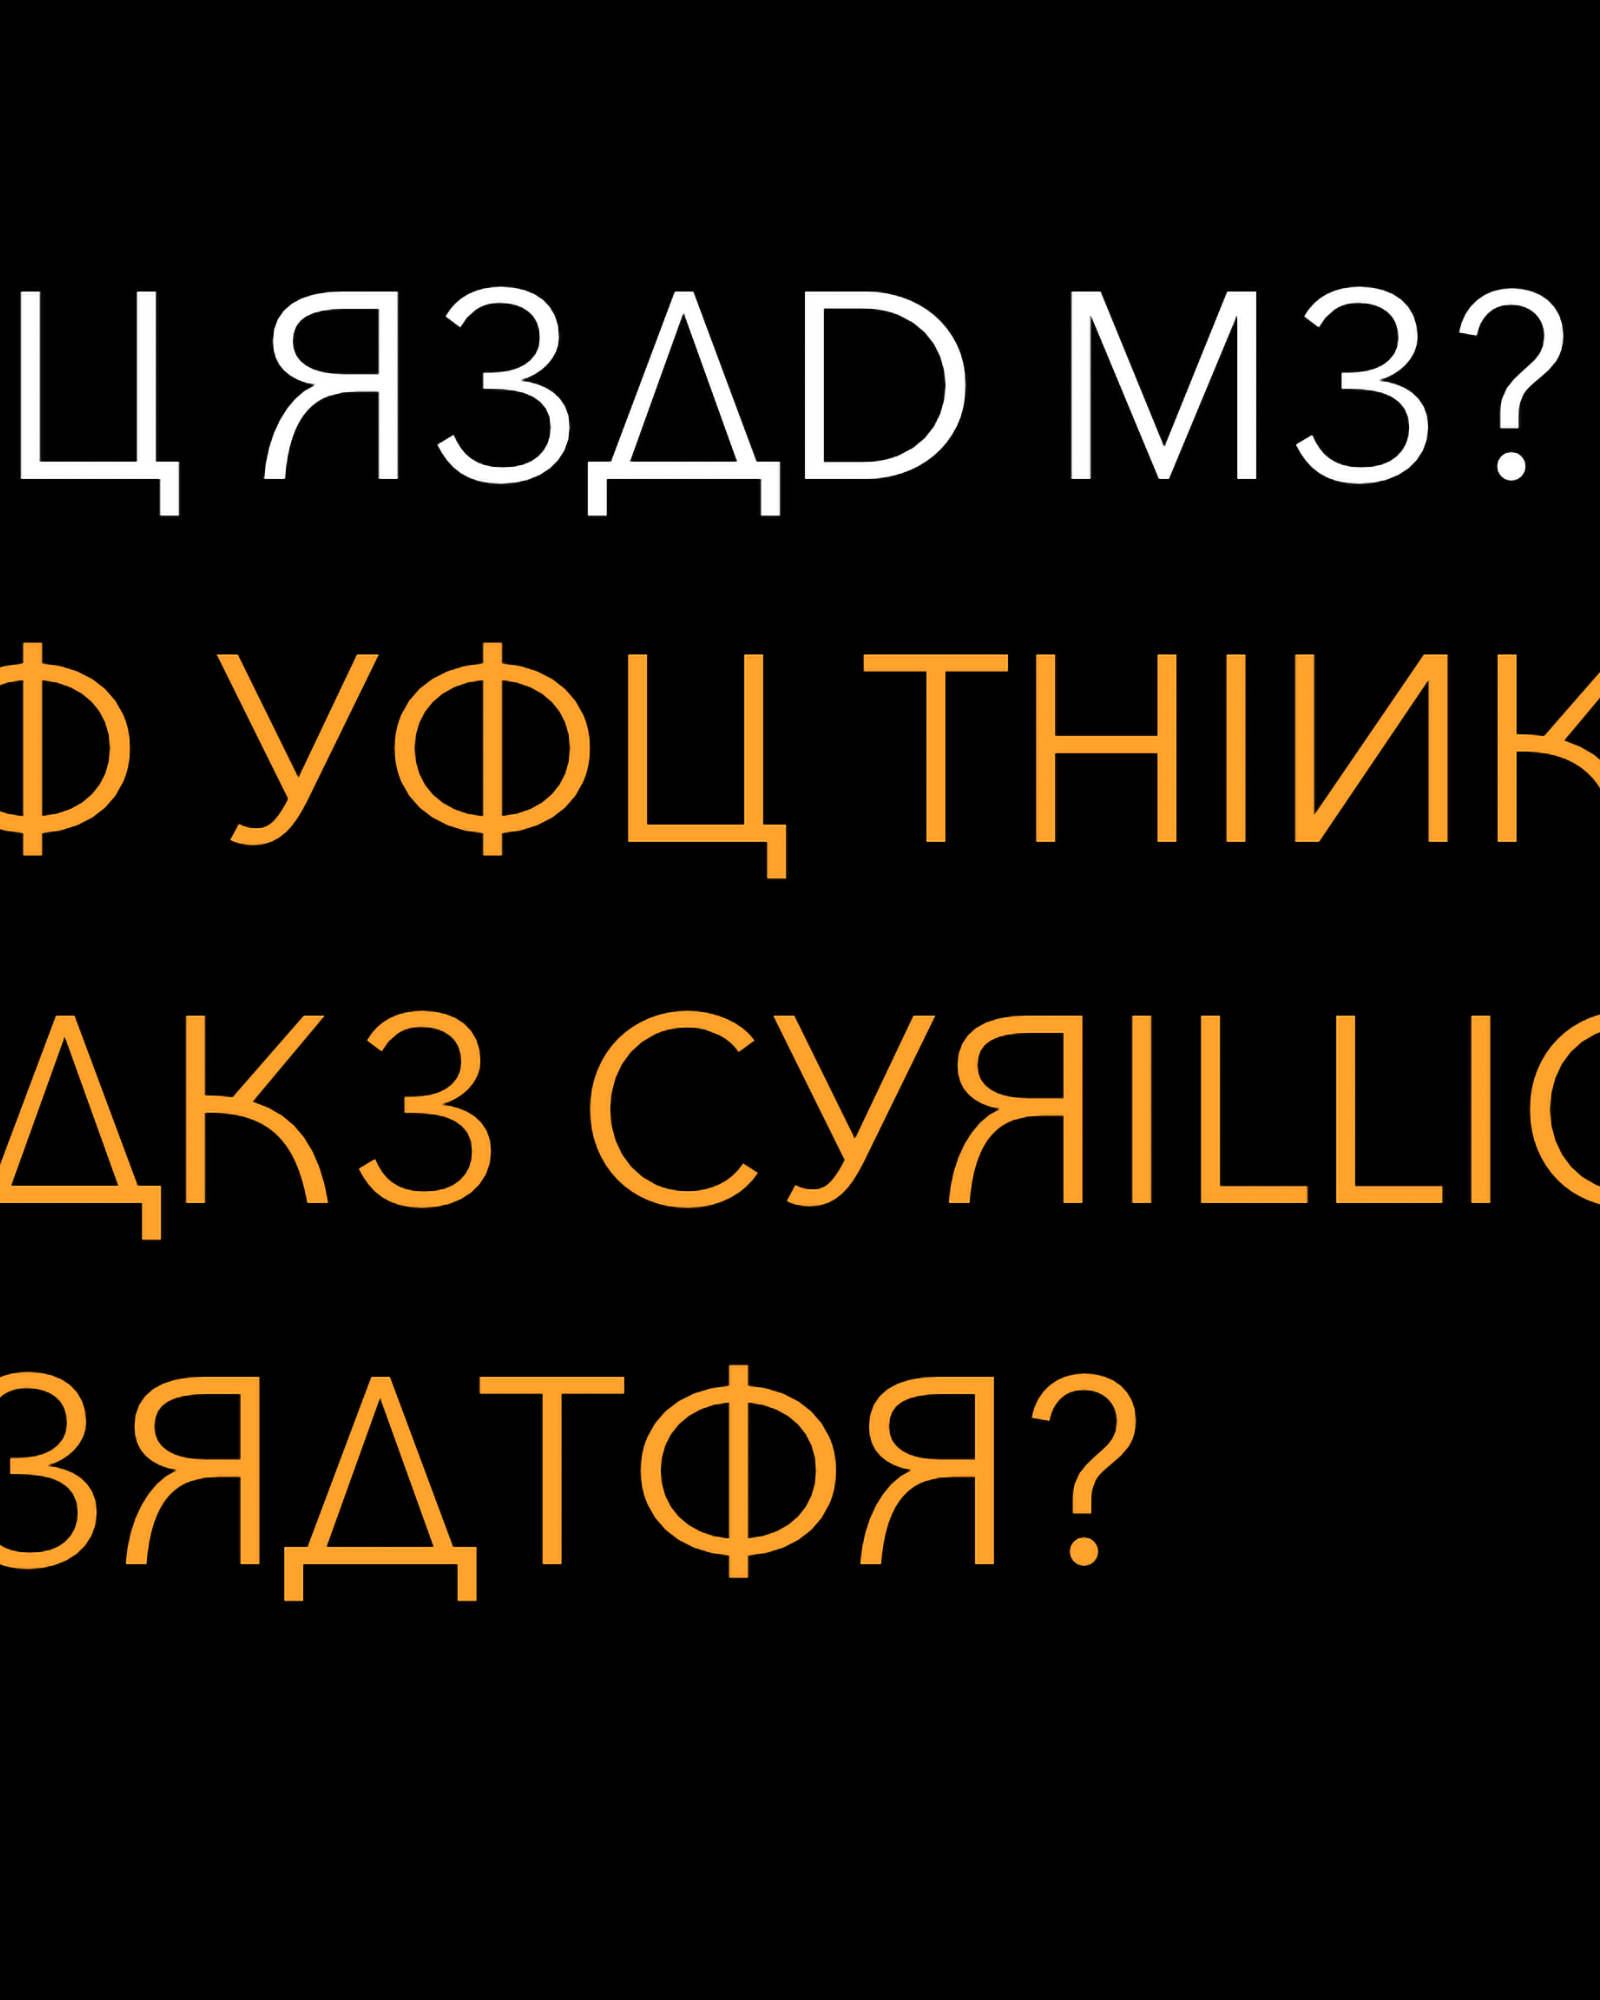
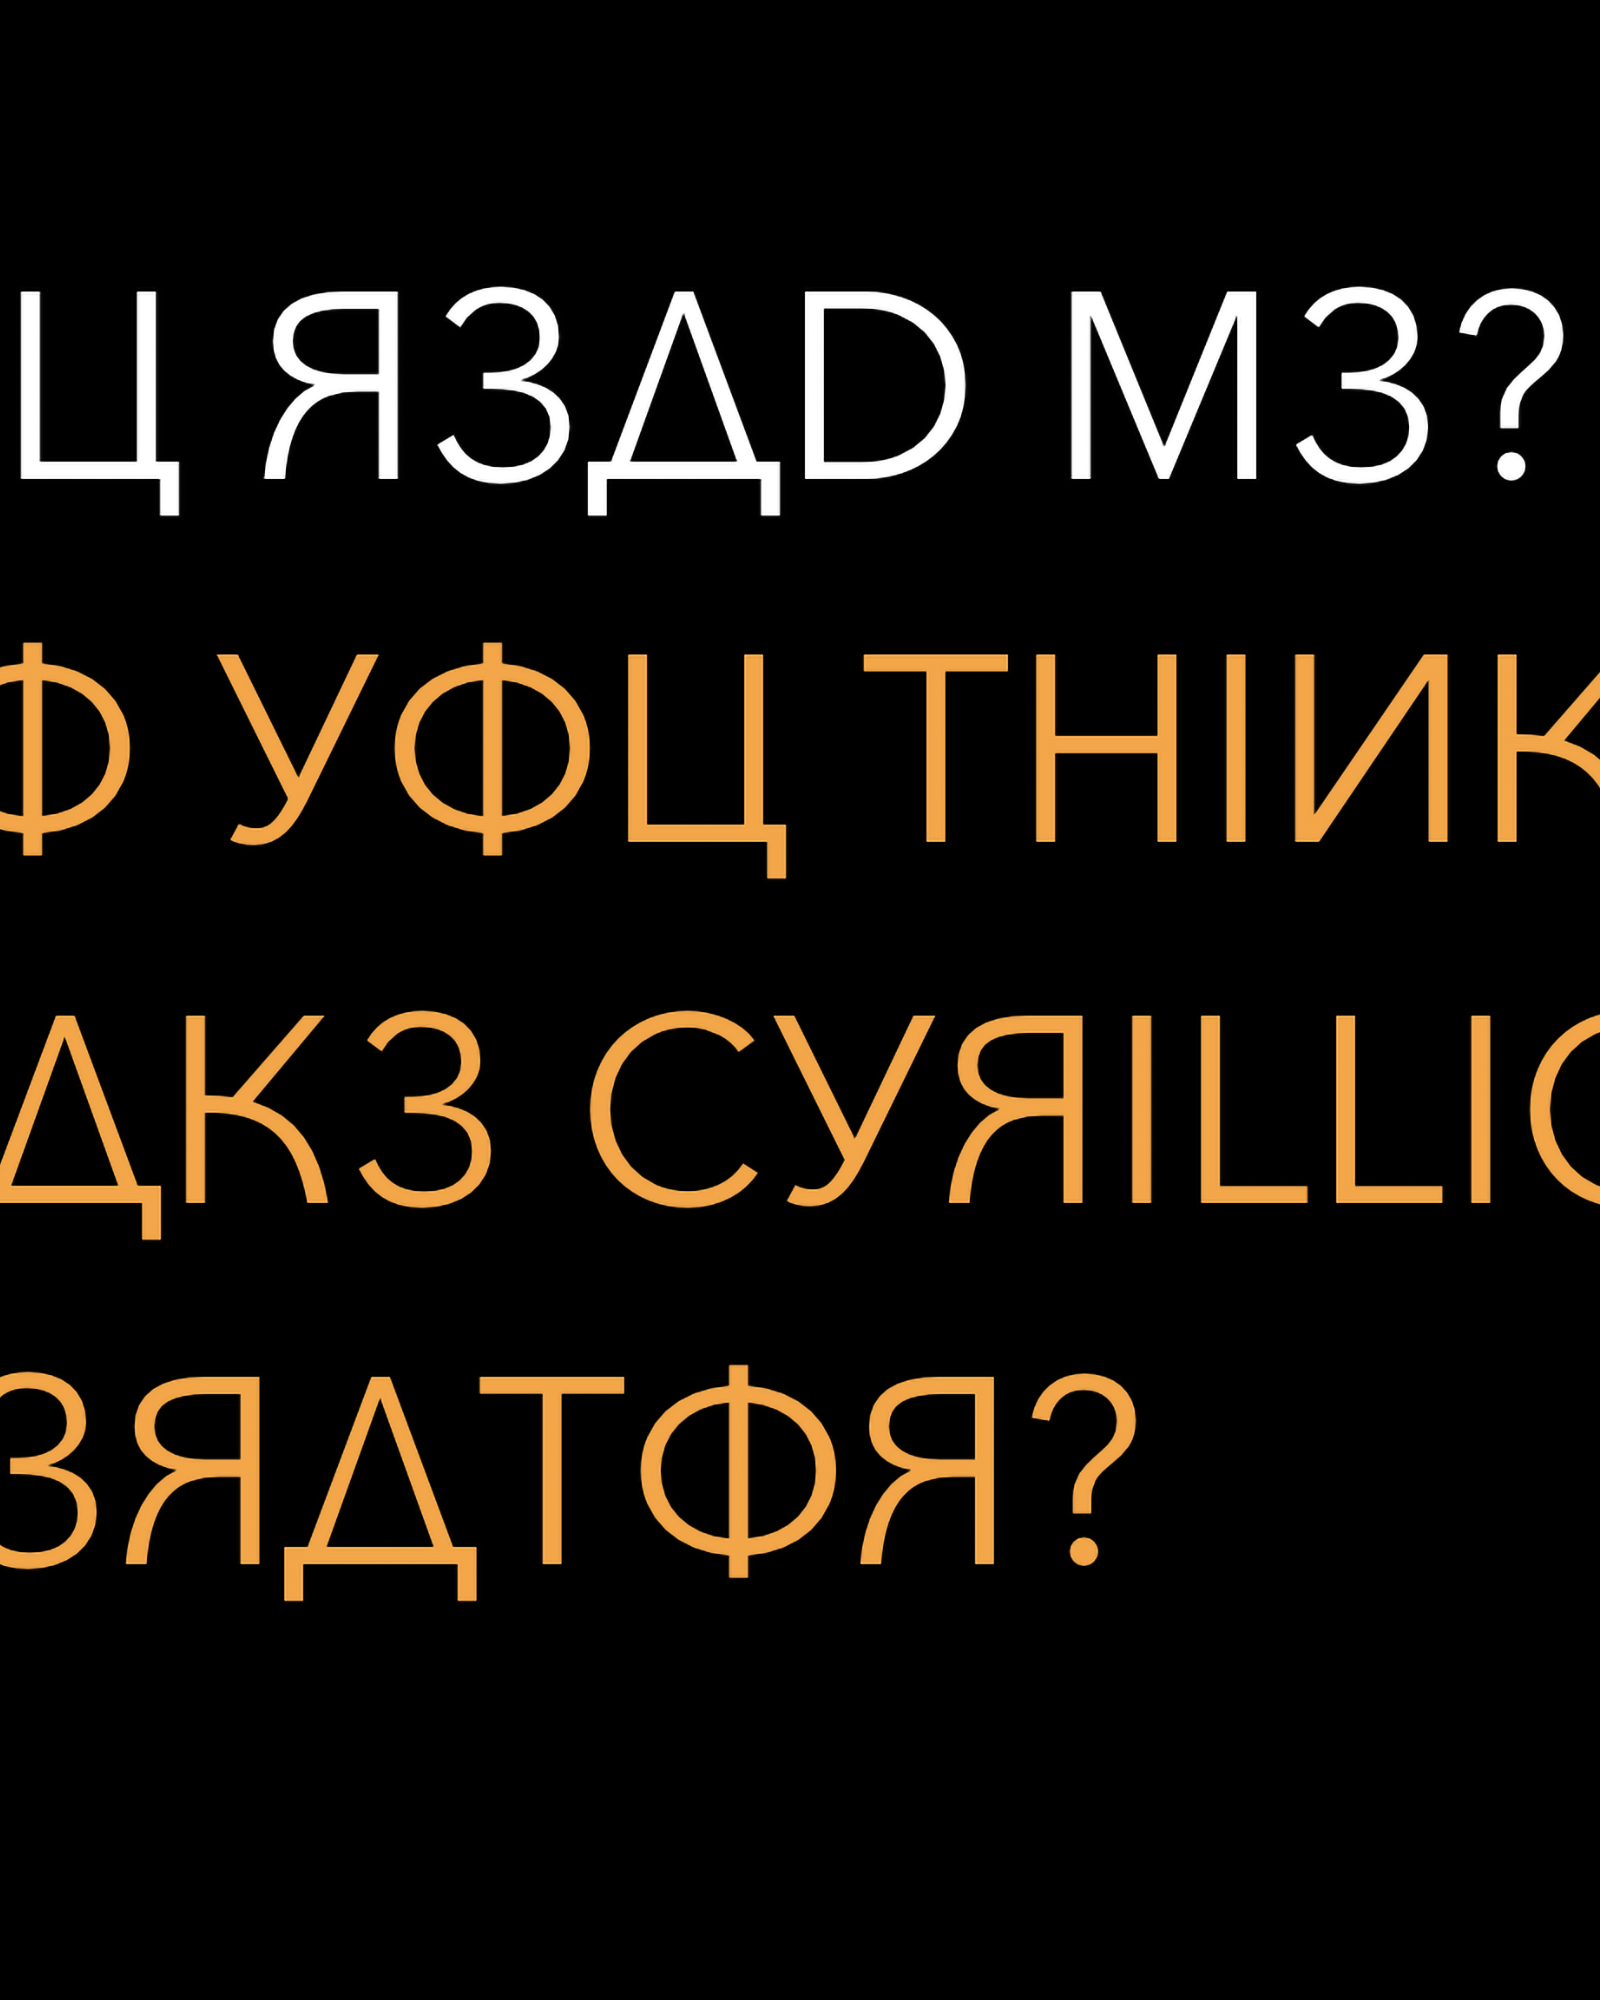
Use uncompressed slides

diff --git a/pages/slideshow.vue b/pages/slideshow.vue
@@ -22,34 +22,34 @@ export default {
     return {
       slides: [
         {
-          default: 'images/portfolio/D.jpg'
+          default: 'images/portfolio/D.png'
         },
         {
-          default: 'images/portfolio/F.jpg'
+          default: 'images/portfolio/F.png'
         },
         {
-          default: 'images/portfolio/G.jpg'
+          default: 'images/portfolio/G.png'
         },
         {
-          default: 'images/portfolio/J.jpg'
+          default: 'images/portfolio/J.png'
         },
         {
-          default: 'images/portfolio/L.jpg'
+          default: 'images/portfolio/L.png'
         },
         {
-          default: 'images/portfolio/O.jpg'
+          default: 'images/portfolio/O.png'
         },
         {
-          default: 'images/portfolio/Q.jpg'
+          default: 'images/portfolio/Q.png'
         },
         {
-          default: 'images/portfolio/R.jpg'
+          default: 'images/portfolio/R.png'
         },
         {
-          default: 'images/portfolio/S.jpg'
+          default: 'images/portfolio/S.png'
         },
         {
-          default: 'images/portfolio/Y.jpg'
+          default: 'images/portfolio/Y.png'
         }
       ]
     }
